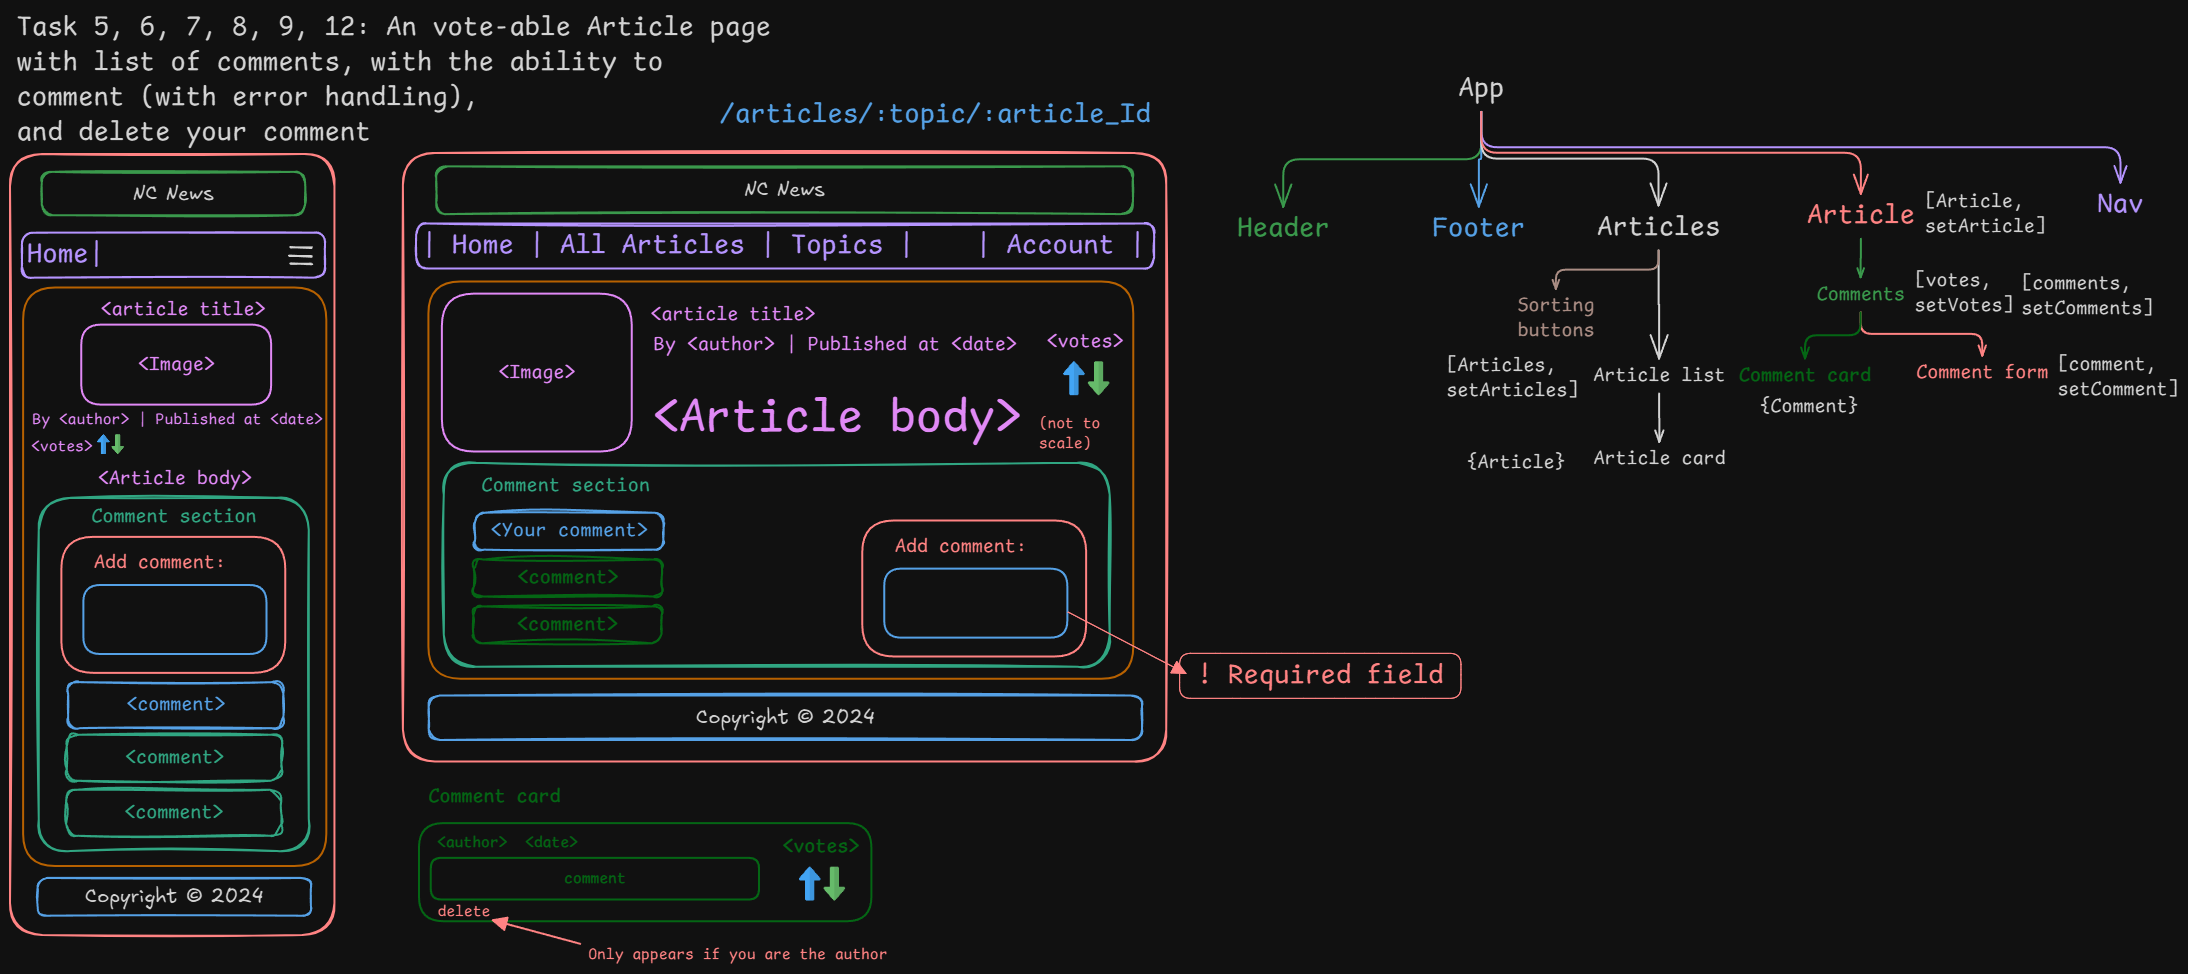
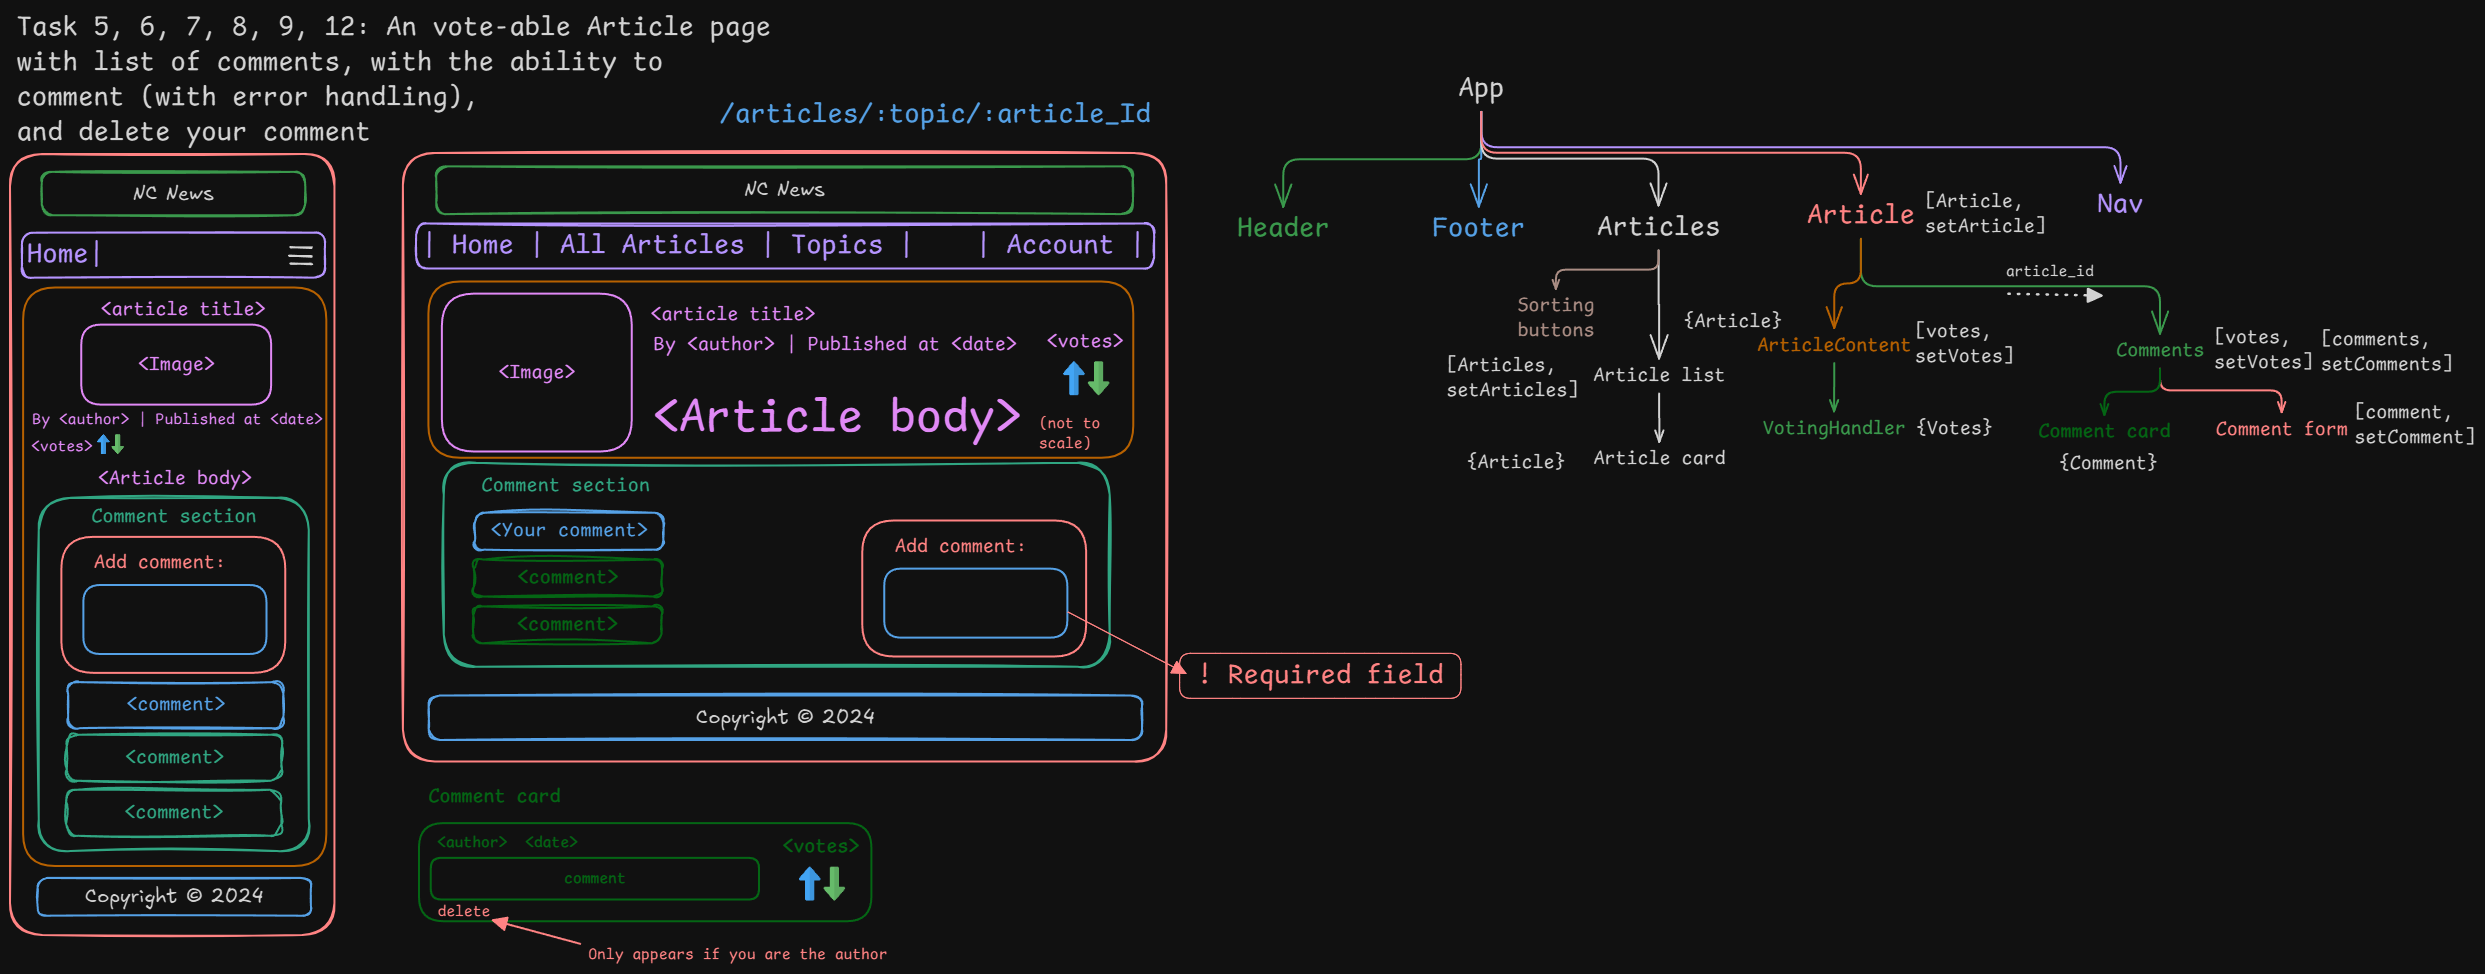
Completes Task 7

diff --git a/src/components/ArticleContent.jsx b/src/components/ArticleContent.jsx
@@ -1,0 +1,85 @@
+import { useState } from "react";
+import VotingHandler from "./VotingHandler";
+
+import "../css/ArticleContent.css";
+import "../css/VotingArrows.css";
+
+const ArticleContents = ({ article, upvote, downvote }) => {
+  const [votes, setVotes] = useState(article.votes);
+  const [activeVote, setActiveVote] = useState(null);
+
+  const handleUpVote = () => {
+    if (activeVote === "up") {
+      VotingHandler(article.article_id, -1).catch(() => {
+        setVotes((currVotes) => currVotes + 1);
+      });
+
+      setVotes((currVotes) => currVotes - 1);
+      setActiveVote(null);
+    } else {
+      const adjustment = activeVote === "down" ? 2 : 1;
+      VotingHandler(article.article_id, adjustment).catch(() => {
+        setVotes((currVotes) => currVotes - adjustment);
+      });
+
+      setVotes((currVotes) => currVotes + adjustment);
+      setActiveVote("up");
+    }
+  };
+
+  const handleDownVote = () => {
+    if (activeVote === "down") {
+      VotingHandler(article.article_id, 1).catch(() => {
+        setVotes((currVotes) => currVotes - 1);
+      });
+      setVotes((currVotes) => currVotes + 1);
+      setActiveVote(null);
+    } else {
+      const adjustment = activeVote === "up" ? -2 : -1;
+      VotingHandler(article.article_id, adjustment).catch(() => {
+        setVotes((currVotes) => currVotes - adjustment);
+      });
+      setVotes((currVotes) => currVotes + adjustment);
+      setActiveVote("down");
+    }
+  };
+
+  const date = new Date(article.created_at).toLocaleString();
+  return (
+    <>
+      <div className="articleData">
+        <h2>{article.title}</h2>
+        <h3>in {article.topic}</h3>
+        <h3>By {article.author}</h3>
+        <h3>Published on {date}</h3>
+        <h4>Votes: {votes}</h4>
+        <h4>
+          <button id="upvote-button" onClick={handleUpVote}>
+            <img
+              src={upvote}
+              alt="upvote arrow"
+              id={`up-arrow-${activeVote === "up" ? "active" : ""}`}
+              className="vote-arrows"
+            />
+          </button>
+          <button id="downvote-button" onClick={handleDownVote}>
+            <img
+              src={downvote}
+              alt="downvote arrow"
+              id={`down-arrow-${activeVote === "down" ? "active" : ""}`}
+              className="vote-arrows"
+            />
+          </button>
+        </h4>
+      </div>
+      <div className="articleImage">
+        <img src={article.article_img_url} />
+      </div>
+      <div className="articleBody">
+        <h4>{article.body}</h4>
+      </div>
+    </>
+  );
+};
+
+export default ArticleContents;

diff --git a/src/components/Article.jsx b/src/components/Article.jsx
@@ -2,11 +2,11 @@ import { useEffect, useState } from "react";
 import { useParams } from "react-router";
 import { getArticleById } from "../../api";
 
+import ArticleContents from "./ArticleContent";
 import Comments from "./Comments";
 
-import arrow from "../icons/arrow.svg";
-
-import "../css/Article.css";
+import upvote from "../icons/upvote.svg";
+import downvote from "../icons/downvote.svg";
 
 const Article = () => {
   const [article, setArticle] = useState([]);
@@ -18,8 +18,6 @@ const Article = () => {
       .then((article) => {
         setArticle(article);
         setIsLoading(false);
-        if (article.length === 0) {
-        }
       })
       .catch(() => {
         setIsLoading(false);
@@ -30,30 +28,15 @@ const Article = () => {
     return <div role="alert">Loading Article...</div>;
   }
 
-  const date = new Date(article.created_at).toLocaleString();
-
   return (
-    <div className="container">
-      <div className="articleData">
-        <h2>{article.title}</h2>
-        <h3>in {article.topic}</h3>
-        <h3>By {article.author}</h3>
-        <h3>Published on {date}</h3>
-        <h4>Votes: {article.votes}</h4>
-        <h4>
-          <img src={arrow} alt="" id="up-arrow" className="vote-arrows" />
-          <img src={arrow} alt="" id="down-arrow" className="vote-arrows" />
-        </h4>
-        <p>placeholder arrows</p>
-      </div>
-      <div className="articleImage">
-        <img src={article.article_img_url} />
-      </div>
-      <div className="articleBody">
-        <h4>{article.body}</h4>
-      </div>
+    <div className="article-container">
+      <ArticleContents article={article} upvote={upvote} downvote={downvote} />
       <div className="articleComments">
-        <Comments article_id={article.article_id}/>
+        <Comments
+          article_id={article.article_id}
+          upvote={upvote}
+          downvote={downvote}
+        />
       </div>
       <div className="addComment">[Add comment WIP]</div>
     </div>

diff --git a/src/css/VotingArrows.css b/src/css/VotingArrows.css
@@ -1,0 +1,37 @@
+.vote-arrows {
+    height: 40px;
+    filter: invert(100%) sepia(0%) saturate(0%) hue-rotate(0deg) brightness(100%) contrast(100%);
+    transition: filter 0.3s ease, transform 0.3s ease;
+}
+
+#up-arrow-active {
+    filter: invert(75%) sepia(100%) saturate(9000%) hue-rotate(90deg) brightness(100%) contrast(100%);
+}
+
+#down-arrow-active {
+    filter: invert(15%) sepia(96%) saturate(4000%) hue-rotate(-19deg) brightness(100%) contrast(96%);
+}
+
+#upvote-button {
+    background-color: transparent;
+    padding: 0;
+    border: none;
+}
+
+#downvote-button {
+    background-color: transparent;
+    padding: 0;
+    border: none;
+}
+
+#upvote-button:hover .vote-arrows {
+    filter: invert(70%) sepia(100%) saturate(9000%) hue-rotate(90deg) brightness(100%) contrast(100%);
+    cursor: pointer;
+    transform: scale(1.2);
+}
+
+#downvote-button:hover .vote-arrows {
+    filter: invert(50%) sepia(96%) saturate(4000%) hue-rotate(-19deg) brightness(100%) contrast(96%);
+    cursor: pointer;
+    transform: scale(1.2);
+}

diff --git a/api.js b/api.js
@@ -25,4 +25,16 @@ const getCommentsByArticleId = (article_id) => {
   });
 };
 
-export { getArticles, getArticleById, getCommentsByArticleId };
+const patchArticleVotes = (article_id, vote) => {
+  const url = `/articles/${article_id}`;
+  return api.patch(url, { inc_votes: vote }).then(({ data }) => {
+    return data.article.votes;
+  });
+};
+
+export {
+  getArticles,
+  getArticleById,
+  getCommentsByArticleId,
+  patchArticleVotes,
+};

diff --git a/src/css/ArticleContent.css b/src/css/ArticleContent.css
@@ -1,4 +1,4 @@
-.container {
+.article-container {
     margin: 25px;
     display: grid;
     grid-template-columns: 40% 30% 30%;
@@ -46,18 +46,4 @@
 
 .addComment {
     grid-area: addComment;
-}
-
-
-.vote-arrows {
-    height: 40px;
-}
-
-#up-arrow {
-    transform: rotate(180deg);
-    background-color: green;
-}
-
-#down-arrow {
-    background-color: red;
 }

diff --git a/src/components/ArticleCard.jsx b/src/components/ArticleCard.jsx
@@ -11,7 +11,8 @@ const ArticleCard = ({ article }) => {
           By {article.author}, published on {date}
         </h4>
         <h5>
-          {article.topic} | comments: {article.comment_count}
+          Topic: {article.topic} | comments: {article.comment_count} | Votes:{" "}
+          {article.votes}
         </h5>
       </li>
     </div>

diff --git a/src/components/VotingHandler.jsx b/src/components/VotingHandler.jsx
@@ -1,0 +1,9 @@
+import { patchArticleVotes } from "../../api";
+
+const VotingHandler = (id, vote) => {
+  return patchArticleVotes(id, vote).then((updatedArticle) => {
+    return updatedArticle;
+  });
+};
+
+export default VotingHandler;
